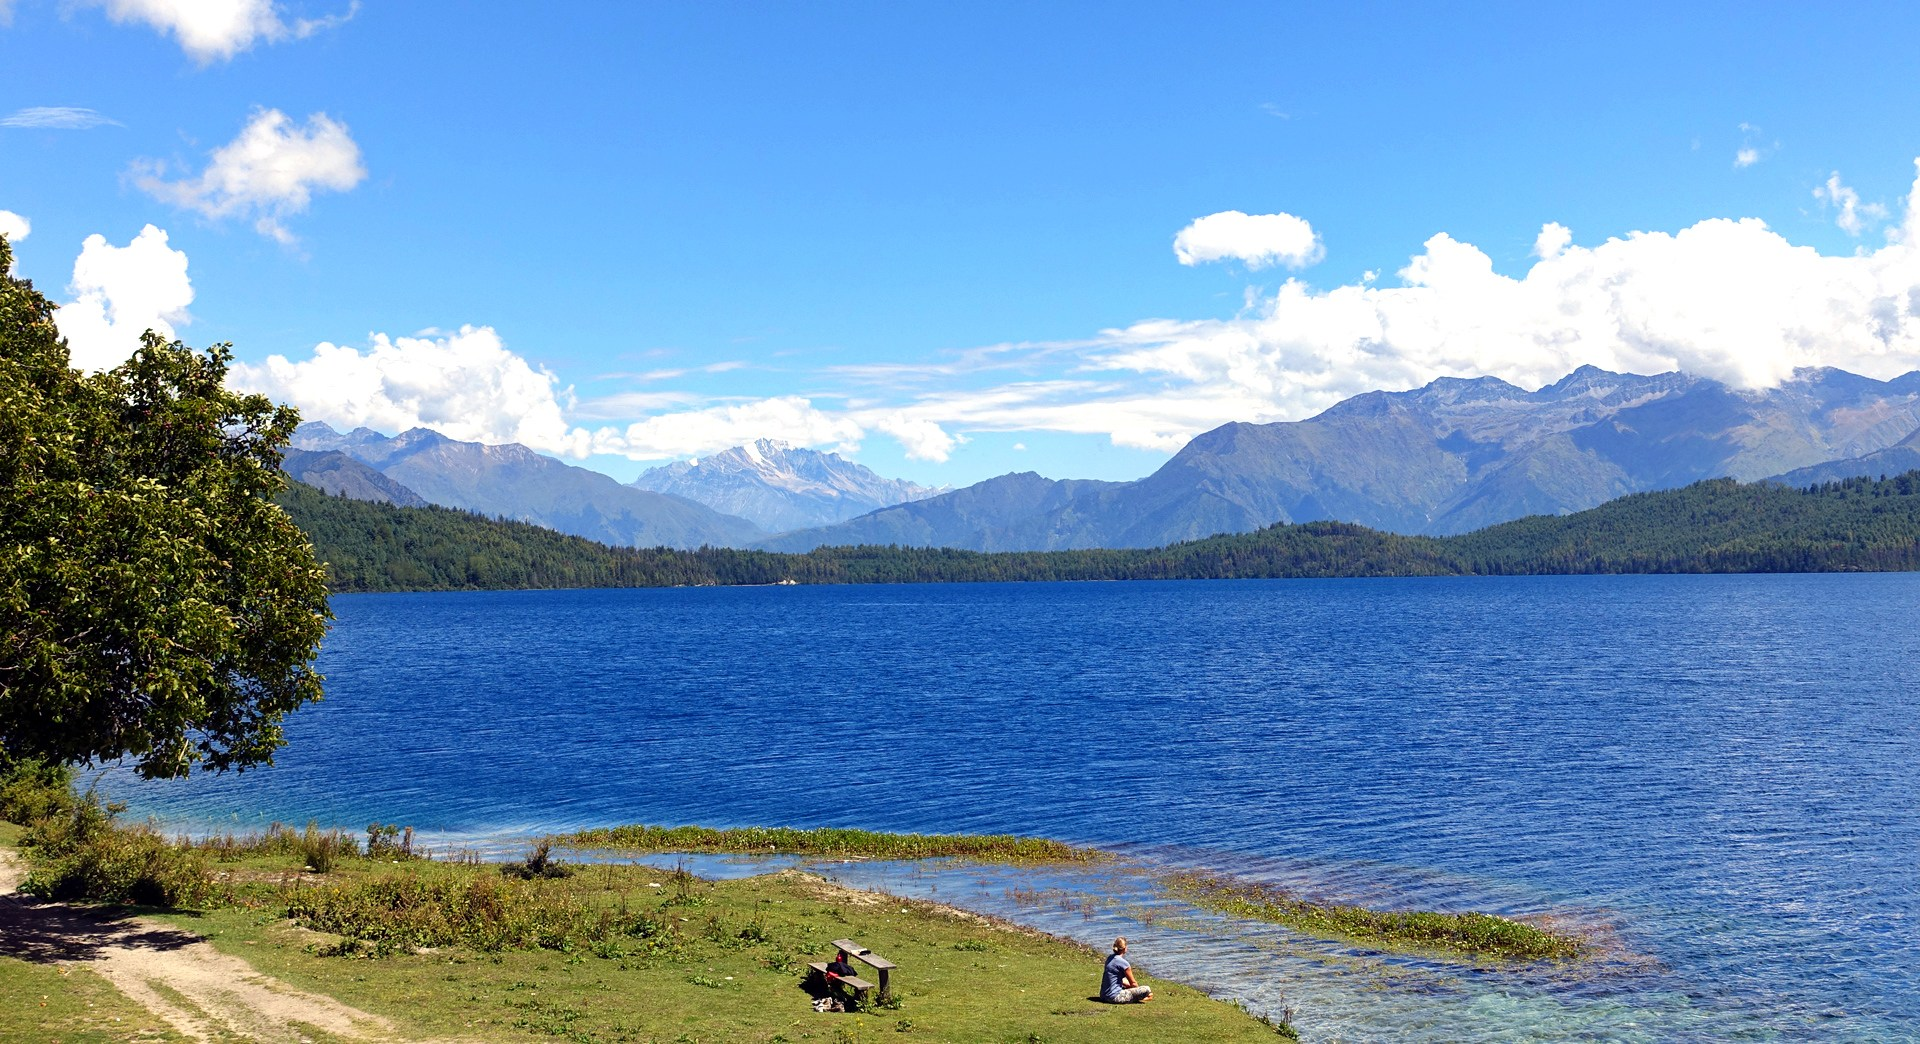
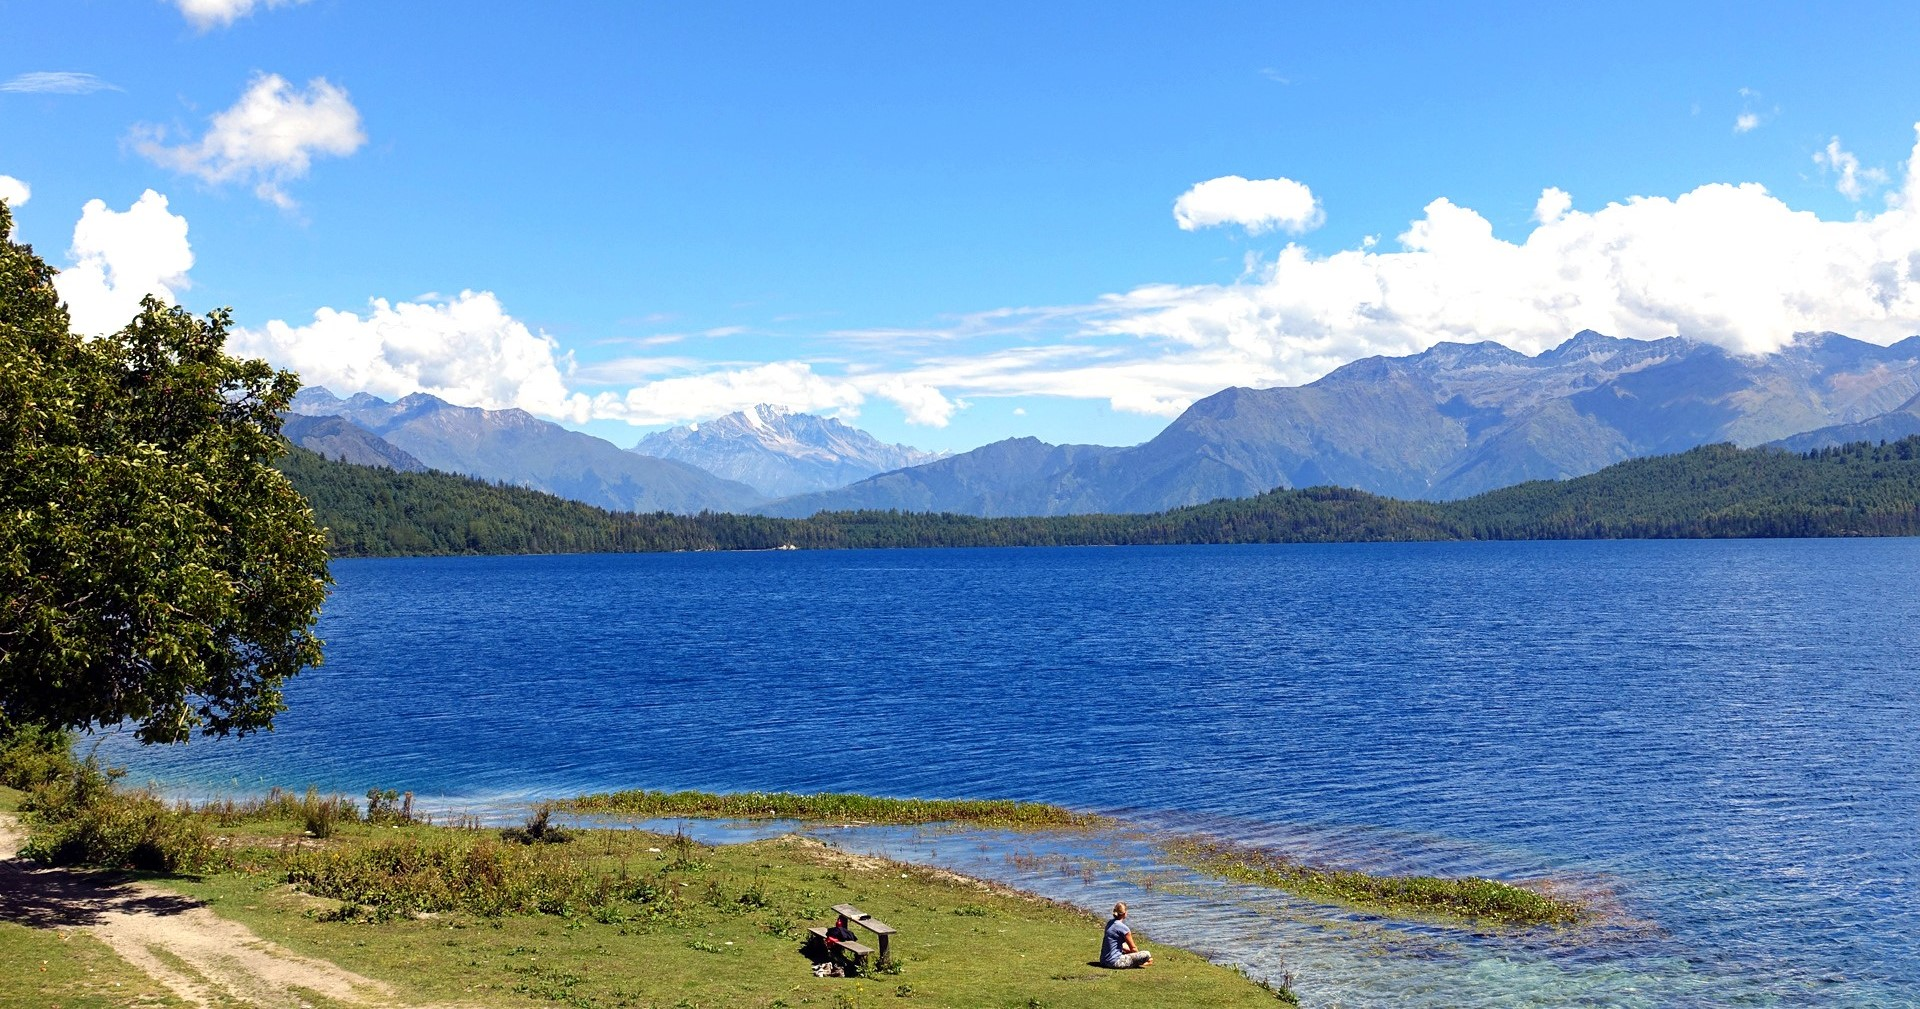
Fix carousel height

diff --git a/styles.css b/styles.css
@@ -21,7 +21,7 @@ html, body {
 
 .carousel-inner img {
     width: 100%;
-    height: 100%;
+    height: 70vh;
 }
 
 .carousel-caption {
@@ -31,16 +31,10 @@ html, body {
 }
 
 .carousel-caption h1 {
-    font-size: 500%;
+    font-size: 400%;
     font-weight: 600;
     text-transform: uppercase;
     text-shadow: 1px 1px 15px #000;
-}
-
-.carousel-caption h3 {
-    font-size: 200%;
-    font-weight: 500;
-    text-shadow: 1px 1px 10px #000;
 }
 
 .col-img {
@@ -99,6 +93,10 @@ html, body {
 
 /*---Media Queries --*/
 @media (max-width: 992px) {
+    .carousel-caption h1 {
+        font-size: 300%;
+    } 
+
     .col-img {
         order: 1;
     }

diff --git a/index.html b/index.html
@@ -68,7 +68,7 @@
             </ul>
 
             <!-- Images -->
-            <div class="carousel-inner">
+            <div class="carousel-inner  overflow-hidden">
                 <div class="carousel-item active">
                     <img src="./images/carousel/bg0.jpeg">
                     <div class="carousel-caption d-none d-md-block">
